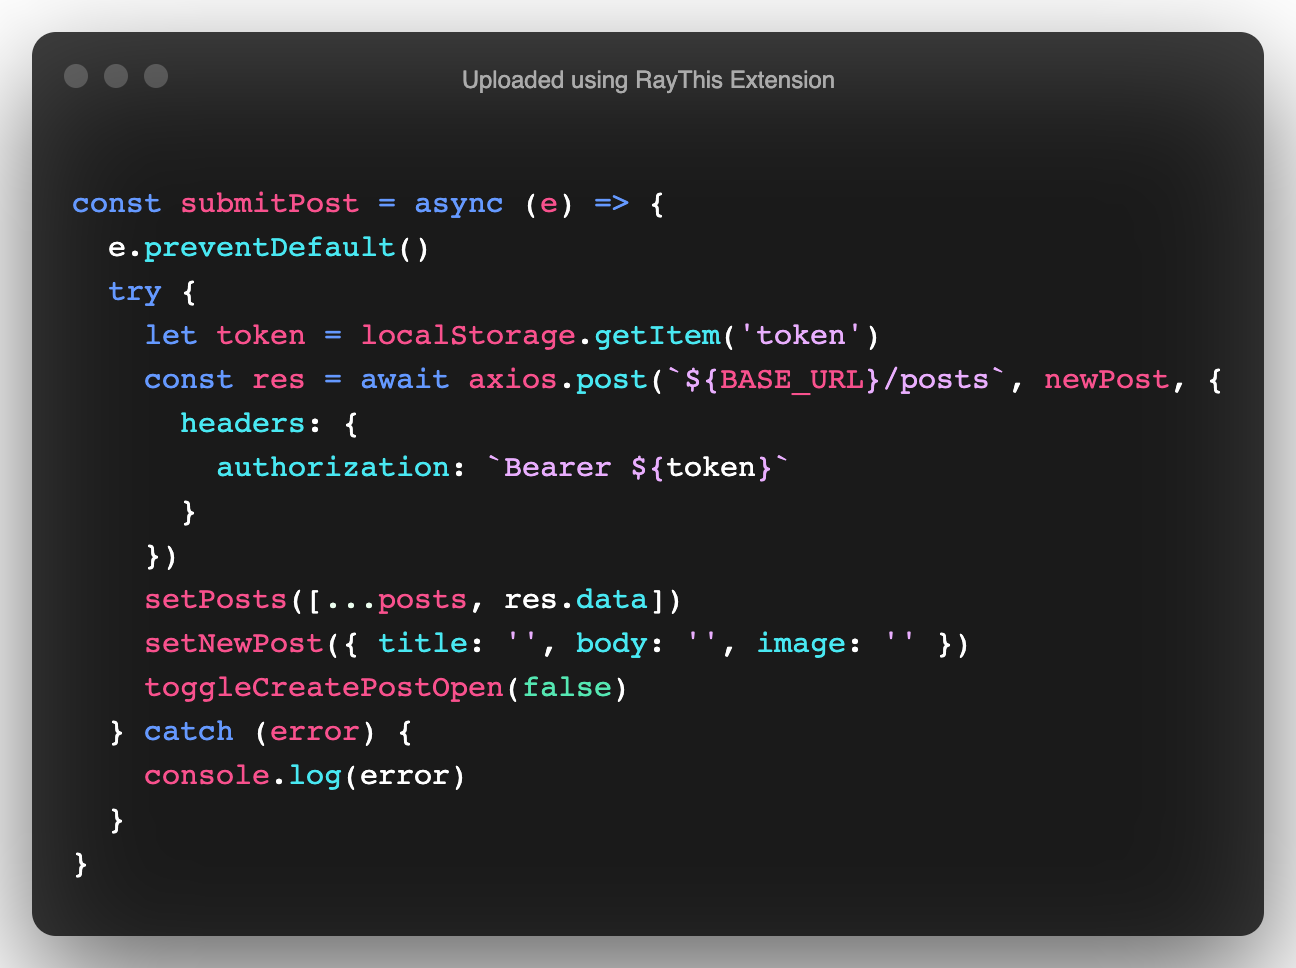
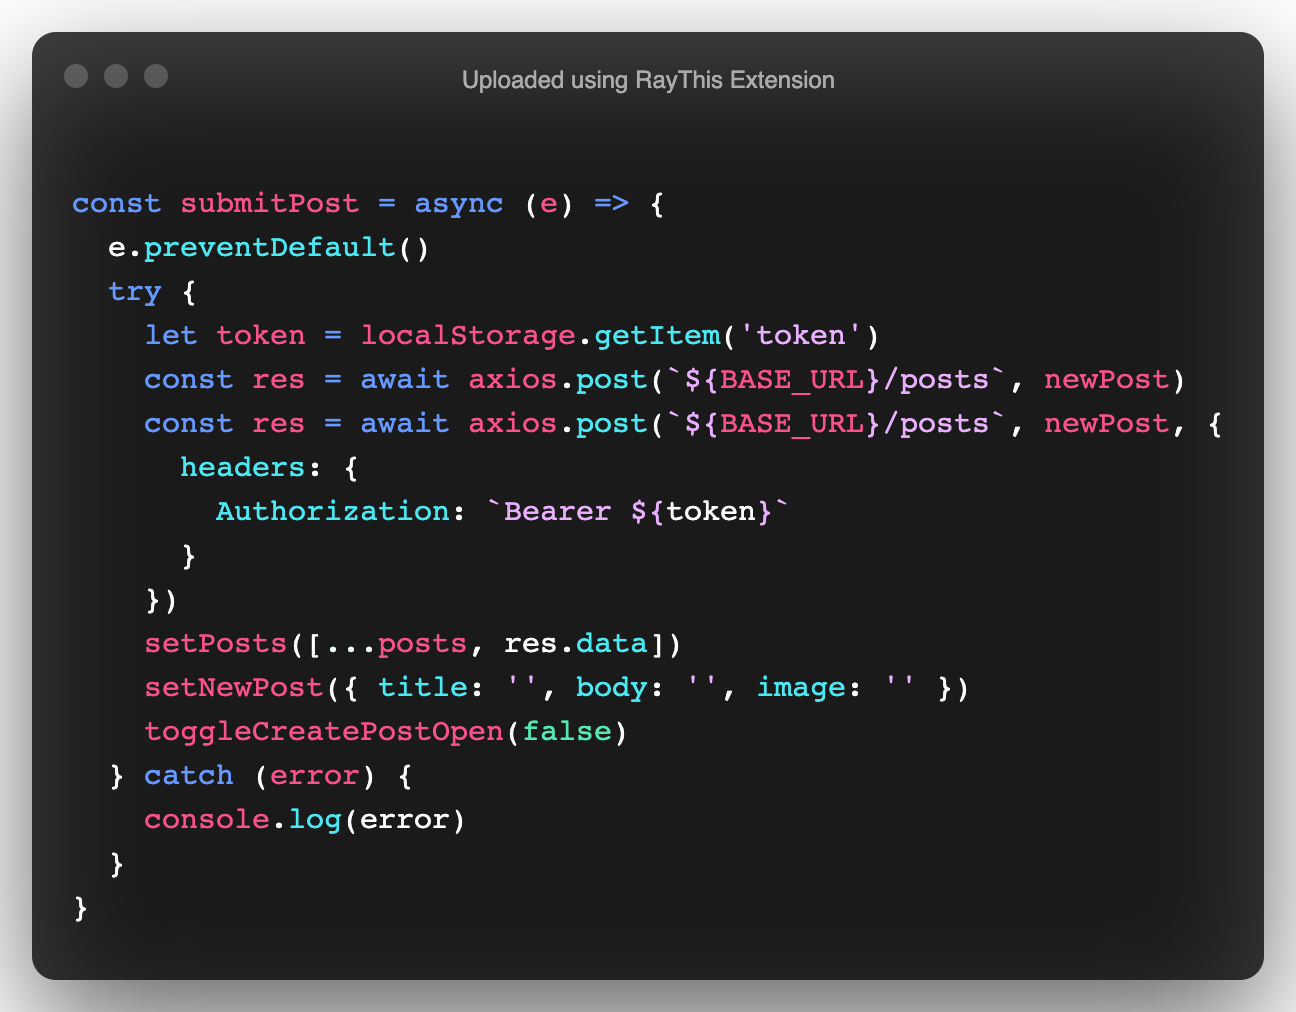
add interceptors and update snippets

diff --git a/README.md b/README.md
@@ -208,7 +208,7 @@ const submitPost = async (e) => {
   ```js
   const res = await axios.post(`${BASE_URL}/posts`, newPost, {
     headers: {
-      authorization: `Bearer ${token}`
+      Authorization: `Bearer ${token}`
     }
   })
   ```
@@ -234,6 +234,39 @@ Final `submitPost`:
 Click the `Create Post` button and fill out the form, putting an image url for the `image` field.
 
 Submit the request, you should see a `200` status in your server logs and the new post being appended to the page.
+
+## Making Code Follow The DRY Principle
+
+You'll notice above that we're providing the token during our `axios` request. There's an easier way however!
+
+We can utilize `axios` interceptors!
+
+Start by importing `axios` in our `globals.js` file.
+
+Next we'll set up the interceptors:
+
+```js
+axios.interceptors.request.use(
+  (config) => {
+    let token = localStorage.getItem('token')
+    if (token) {
+      config.headers['Authorization'] = `Bearer ${token}`
+    }
+    return config
+  },
+  (error) => Promise.reject(error)
+)
+```
+
+Every time we submit a request with axios, it will run this function and provide the token on each request if it exists.
+
+Now we can remove the headers from our `submitPost` method!
+
+```js
+const res = await axios.post(`${BASE_URL}/posts`, newPost)
+```
+
+Test it out!
 
 ## You Do
 
